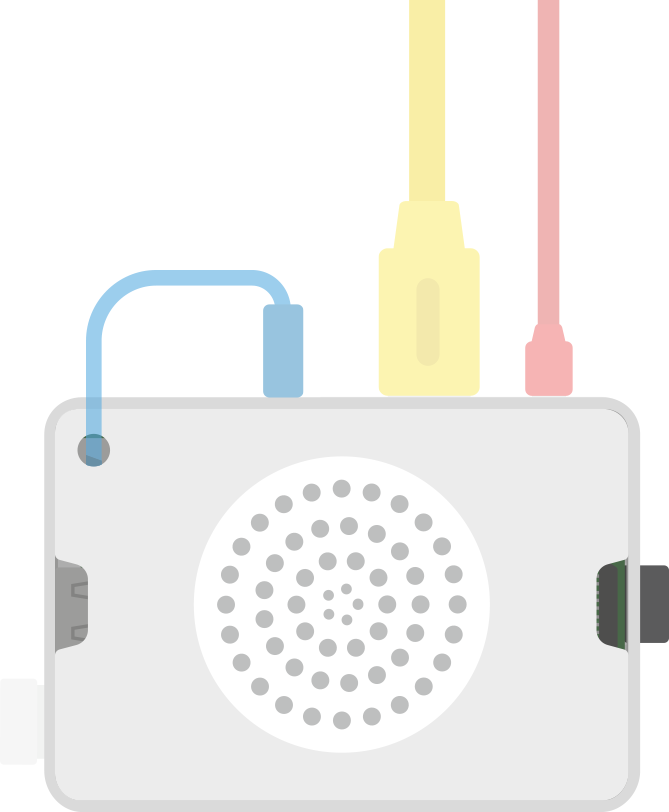
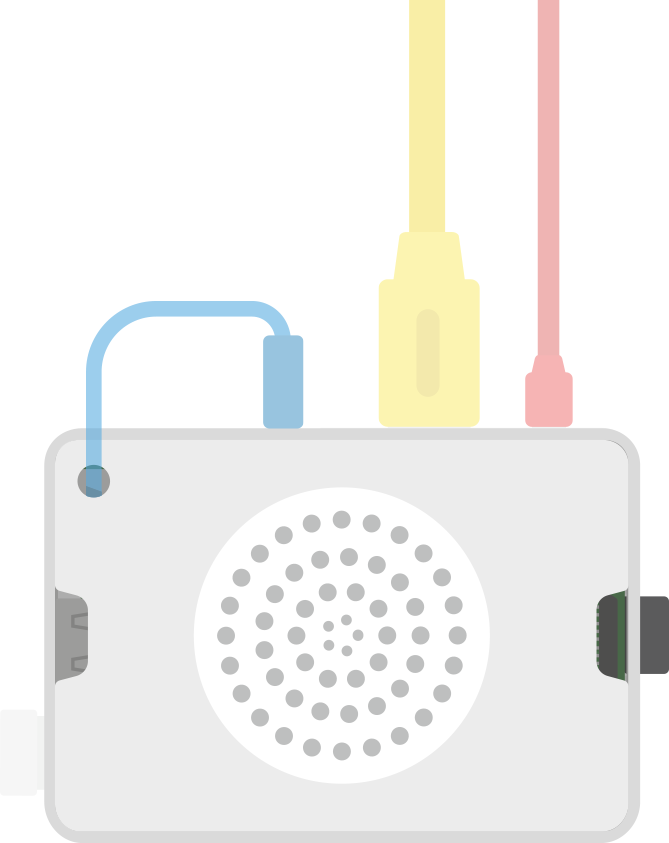
Making the pi-wifi scene line up with the edge

diff --git a/kano_init_flow/stages/pi_wifi/main.py b/kano_init_flow/stages/pi_wifi/main.py
@@ -47,22 +47,22 @@ class PiWifi(Stage):
 
         scene.add_arrow(
             "down",
-            Placement(0.46, 0.36),
+            Placement(0.46, 0.31),
             Placement(0.46, 0.44)
         )
 
         scene.add_widget(
             ActiveImage(self.media_path('wifi.gif'),
                         hover=self.media_path('wifi-hover.gif')),
-            Placement(0.48, 0.58),
-            Placement(0.475, 0.631),
+            Placement(0.48, 0.53),
+            Placement(0.475, 0.6),
             self.next_stage
         )
 
         scene.add_widget(
             Gtk.Image.new_from_file(self.media_path('Pi-wifi.png')),
-            Placement(0.83, 0.2),
-            Placement(0.73, 0.2)
+            Placement(0.83, 0),
+            Placement(0.73, 0)
         )
 
         scene.add_widget(
